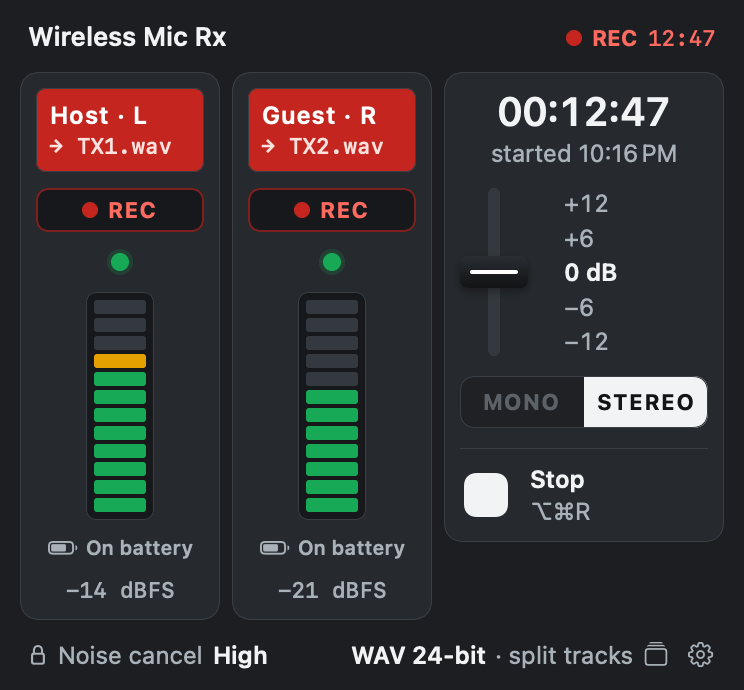
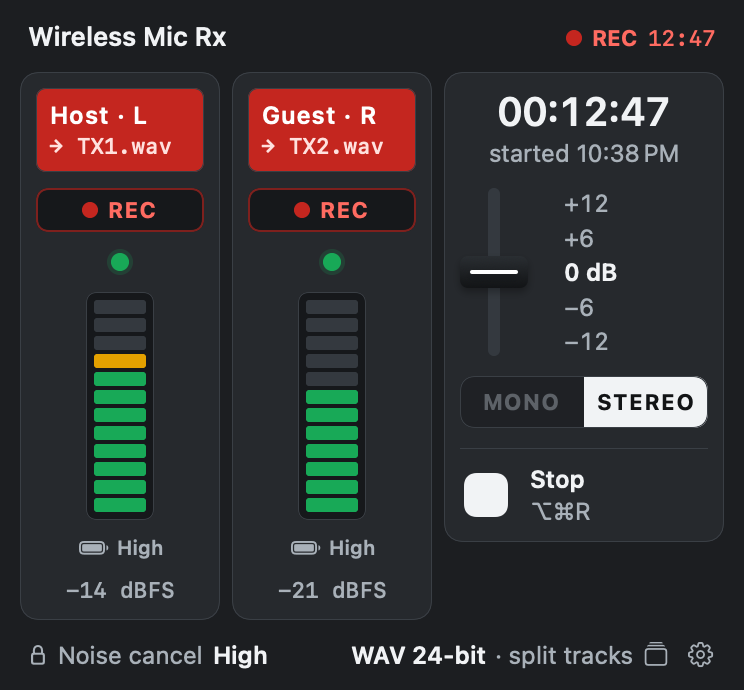
Show the receiver's high battery code and log battery changes
Code 1 in the transmitter status reads as High (DJI Mimo showed both mics at
100% while the receiver reported it). Other codes show as Level N until they
are mapped, and every change is logged to battery.log.

Changed region(s): [[0.3401, 0.7609, 0.5565, 0.8217], [0.0618, 0.7609, 0.2782, 0.8217], [0.6492, 0.213, 0.9274, 0.2435]]

diff --git a/Sources/LavdeckApp/Components.swift b/Sources/LavdeckApp/Components.swift
@@ -100,31 +100,43 @@ struct LEDMeter: View {
     }
 }
 
-/// Whether a transmitter is charging. The Mobile RX relays the charging flag live but not the battery
-/// level (its level field stays at a fixed placeholder whatever the real charge), so no level is shown.
+/// Charging state and the receiver's battery code for a transmitter. The Mobile RX reports battery as a
+/// coarse code (bits 10-12 of the transmitter status), not a percentage. Code 1 has been confirmed as
+/// "high" (DJI Mimo showed both mics at 100% while it read 1); other codes aren't mapped yet, so they're
+/// shown as the raw code and logged when they change.
 struct ChargeState: View {
     let charging: Bool?
+    let code: Int?
+
+    static func label(for code: Int?) -> String? {
+        switch code {
+        case 1?: "High"
+        case let c?: "Level \(c)"
+        case nil: nil
+        }
+    }
 
     var body: some View {
         HStack(spacing: 3) {
-            switch charging {
-            case true?:
+            if charging == true {
                 Image(systemName: "bolt.fill").font(.system(size: 9, weight: .bold))
                 Text("Charging")
-            case false?:
-                Image(systemName: "battery.75percent").font(.system(size: 10, weight: .medium))
-                Text("On battery")
-            case nil:
+            } else if let label = Self.label(for: code), charging != nil {
+                Image(systemName: code == 1 ? "battery.100percent" : "battery.50percent").font(.system(size: 10, weight: .medium))
+                Text(label)
+            } else {
                 Text("—")
             }
         }
         .font(.system(size: 10, weight: .semibold))
         .foregroundStyle(charging == true ? Theme.green : Theme.mute)
         .frame(height: 12)
-        .help("The receiver reports whether this mic is charging, but not its battery level. DJI Mimo reads the level from the mic directly over Bluetooth.")
+        .help(code == 1 || code == nil
+              ? "Battery as the receiver reports it: a coarse level, not a percentage."
+              : "The receiver reports battery code \(code!), which isn’t mapped to a level yet. Changes are logged to ~/Library/Logs/Lavdeck/battery.log.")
         .accessibilityElement()
-        .accessibilityLabel("Charging")
-        .accessibilityValue(charging == true ? "charging" : charging == false ? "on battery" : "unknown")
+        .accessibilityLabel("Battery")
+        .accessibilityValue(charging == true ? "charging" : Self.label(for: code) ?? "unknown")
     }
 }
 

diff --git a/Sources/LavdeckApp/AppModel.swift b/Sources/LavdeckApp/AppModel.swift
@@ -442,7 +442,7 @@ final class AppModel {
         s.receiver.noiseCancelling = true
         s.receiver.noiseCancellingLevel = 1
         s.receiver.connectedTransmitters = [1, 2]
-        for (index, id, fw, meter, battery, charging) in [(1, "a1b2c3", "02.03.17.00", 58, 5, false), (2, "d4e5f6", "02.03.17.00", 41, 3, !recording)] {
+        for (index, id, fw, meter, battery, charging) in [(1, "a1b2c3", "02.03.17.00", 58, 1, false), (2, "d4e5f6", "02.03.17.00", 41, 1, !recording)] {
             var tx = TransmitterStatus(index: index)
             tx.identity.productName = "DJI Mic Mini"
             tx.identity.bluetoothID = id
@@ -559,7 +559,7 @@ final class AppModel {
     private func logBattery(_ new: MicStatus) {
         for index in new.receiver.connectedTransmitters {
             guard let tx = new.transmitters[index], let level = tx.batteryLevel else { continue }
-            let state = "charging \(tx.isCharging == true ? "yes" : "no") (raw \(String(format: "%08x", tx.rawFlags ?? 0)), level field \(level))"
+            let state = "battery code \(level) (\(ChargeState.label(for: level) ?? "?")), charging \(tx.isCharging == true ? "yes" : "no"), raw \(String(format: "%08x", tx.rawFlags ?? 0))"
             guard loggedBattery[index] != state else { continue }
             loggedBattery[index] = state
             let folder = FileManager.default.homeDirectoryForCurrentUser.appendingPathComponent("Library/Logs/Lavdeck", isDirectory: true)

diff --git a/Sources/LavdeckApp/PopoverView.swift b/Sources/LavdeckApp/PopoverView.swift
@@ -259,7 +259,7 @@ private struct ChannelStrip: View {
                 .help(!armed ? "Not armed: this mic is left out of recordings"
                       : model.metersAreMix ? "Mono mixes both mics, so this shows the mix. Switch to stereo for each mic’s own level."
                       : "This mic’s level, reported by the receiver")
-            ChargeState(charging: linked ? tx?.isCharging : nil)
+            ChargeState(charging: linked ? tx?.isCharging : nil, code: linked ? tx?.batteryLevel : nil)
             Group {
                 if model.isRecording, !armed {
                     Text("not rec")

diff --git a/docs/PROTOCOL.md b/docs/PROTOCOL.md
@@ -78,11 +78,11 @@ Payload: `03, total length (u16 LE), records…`. Each record is `type (1), inde
 | `0x05` | live level meter (1 byte, receiver units: ~30 quiet room, ~75 loud speech). Per mic in stereo; the mixed level in mono |
 | `0x06` | product name (ASCII) |
 
-Transmitter `w` (type `0x02`): bit 2 mute, bits 5–6 noise‑cancel level, bit 8 noise cancel, **bit 9 charging (live)**, bits 10–12 named battery level in DJI's code but **a fixed placeholder on the Mobile RX** (always 1, with bit 13 set, whether the mic is empty or full; DJI Mimo reads the level from the mic over Bluetooth instead), signed gain at byte `r+0x0d`.
+Transmitter `w` (type `0x02`): bit 2 mute, bits 5–6 noise‑cancel level, bit 8 noise cancel, **bit 9 charging (live)**, bits 10–12 battery level code (DJI's `TXChargeRemainingV3`; **1 = high**, read while DJI Mimo showed both mics at 100%; other codes not yet mapped, and the code did not move while the mics charged), signed gain at byte `r+0x0d`.
 
 Receiver `h` (type `0x03`): bits 0–1 environment, bit 2 lossless, bits 3–4 noise‑cancel level, **bit 5 noise cancel**, bit 8 auto power‑off, **bits 9–11 channel mode**, bits 13–15 receiver battery. Signed **gain (dB)** at byte `r+0x08`. **Connected transmitter mask** at byte `r+0x1e` (bit 0 = TX1, bit 1 = TX2). Byte `r+0x22` bit 3 = attached over USB.
 
-In mono the receiver mixes both mics before anything reaches the host, so both `0x05` meters carry the same mixed level; in stereo they track each mic separately (verified against left/right audio). The charging bit follows docking live; the battery-level bits don't change, so Lavdeck shows charging state only.
+In mono the receiver mixes both mics before anything reaches the host, so both `0x05` meters carry the same mixed level; in stereo they track each mic separately (verified against left/right audio). The charging bit follows docking live; the battery code changes rarely if at all, so Lavdeck shows code 1 as High, any other code as "Level N", and logs every change to `~/Library/Logs/Lavdeck/battery.log` until the remaining codes are mapped.
 
 ### Set params `0x5B/0x01`
 

diff --git a/README.md b/README.md
@@ -98,7 +98,7 @@ Plug in the receiver (a USB hub must carry data, not just power) and click the i
 | Switch mono / stereo | Click **MONO** or **STEREO** in the popover |
 | Change gain | Drag the fader or click a value |
 | Tell the mics apart | **Which mic is which?**, then talk into one; click a strip's name to label it |
-| See if a mic is charging | Under each meter: ⚡ Charging or On battery |
+| See if a mic is charging or full | Under each meter: ⚡ Charging, or the receiver's battery level (High) |
 | Record only one mic | Click **ARMED** on the other strip to turn it **OFF** |
 | Start / stop recording | **Record**, <kbd>⌥</kbd><kbd>⌘</kbd><kbd>R</kbd>, or tap a mic's link button |
 | Find your takes | Click the format label in the popover to open **Recordings**, or look in `~/Recordings/Lavdeck/<date>/` |
@@ -143,7 +143,7 @@ Start from [`Examples/plugins/take-info`](Examples/plugins/take-info), which inc
 
 **Known limits**
 
-- **No battery level.** The Mobile RX passes on whether each mic is charging, but not how full it is: its battery field stays at the same placeholder whether a mic is empty or full. DJI Mimo reads the level from the mic directly over Bluetooth. A mic that was just in use can take a few minutes to start charging.
+- **Coarse battery level only.** The Mobile RX passes on whether each mic is charging and a coarse battery code, not a percentage. Only the "high" code is mapped so far; other codes show as "Level N" and are logged to `~/Library/Logs/Lavdeck/battery.log`. A mic that was just in use can take a few minutes to start charging.
 - In mono the receiver mixes both mics, so each strip shows the mixed level (labelled **mono mix**). Switch to stereo to see each mic's own level.
 - The receiver accepts a per‑mic mute but doesn't act on it, so Lavdeck records one mic by keeping only its channel instead.
 - The Mac can't tell which mic's button was tapped; either one toggles recording.
